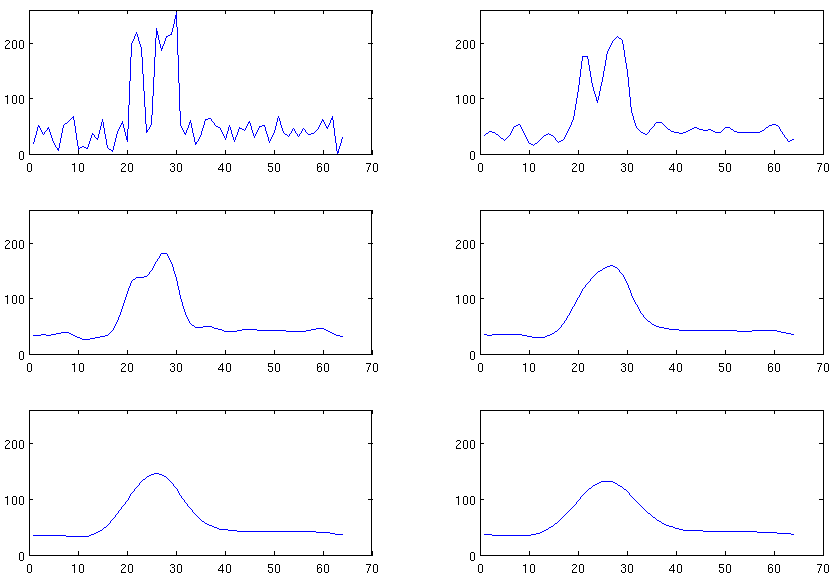
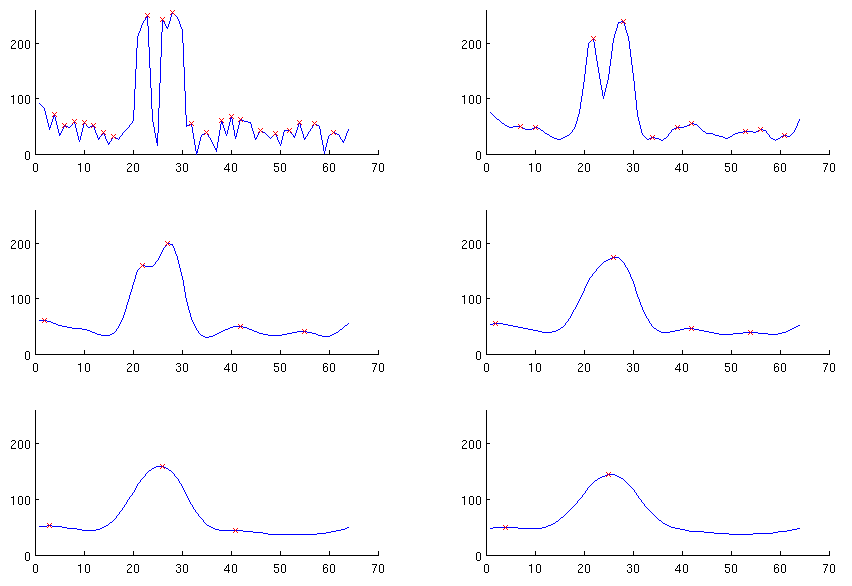
Week 4 done --- almost
I hate it. Shitty assignment :(

diff --git a/assignments/mandatory/week4/report/report.tex b/assignments/mandatory/week4/report/report.tex
@@ -344,6 +344,7 @@ Laplacian pyramid actually \emph{is} the subtraction of two Gaussians
 at different scales, i.e. this is just the same as the equation given in
 \citep[exercise 5.3]{jahne-digital}. I have implemented this and
 reconstructed using the previous method for reconstruction.
+\clearpage
 
 \subsection*{Question 4.2}
 Given a noisy signal we want to find maxima at all levels. We are
@@ -353,16 +354,7 @@ signal to the interval $(0, 255)$.
 We then generate the actual scale spaces using the Gaussian kernel from
 the above assignment (see listing \ref{gauss_matlab}) with increasing
 values for $\sigma$. By incrementing $\sigma$ to 63 we get the image
-shown in fig. \ref{signal_image}. In fig. \ref{signal_plots} the
-original signal is plotted along with the scaled signals for
-$\sigma$-values from 1 to 5.
-
-By inspecting the plots in fig. \ref{signal_plots} we see that
-We now subtract neighbouring pixels to find maxima in the signal. Plots
-are shown in fig. \ref{edges_plots}.
-
-We see that the signal approximates the Gaussian distribution when
-$\sigma$ is increased.
+shown in fig. \ref{signal_image}.
 
 \begin{figure}[!h]
     \centering
@@ -372,6 +364,14 @@ $\sigma$ is increased.
     \label{signal_image}
 \end{figure}
 
+In fig. \ref{signal_plots} the original signal is plotted along with the
+scaled signals for $\sigma$-values from 1 to 5.  By inspecting the plots
+in fig. \ref{signal_plots} we see that the signal is rather quickly
+drowned by the Gaussian kernel. Already at $\sigma = 2$ the two peaks at
+the start of the signal have been merged into one. Also, the position of
+the maxima shift as $\sigma$ increase.  Finally note that the signal
+approximates the Gaussian distribution when $\sigma$ is increased.
+
 \begin{figure}[!h]
     \centering
     \includegraphics[angle=0,width=0.95\textwidth]{images/scale_signal}
@@ -380,22 +380,46 @@ $\sigma$ is increased.
     right. Bottom right have $\sigma = 5$. Note that at $\sigma = 3$ the
     two peaks in the start of the signal have been merged into one.
     Also, just as the image in \textbf{fig. \ref{signal_image}} shows,
-    the intensity of the peaks in the signal decrease.}
+    the intensity of the peaks in the signal decrease. Red crosses
+    indicate found maxima.}
     \label{signal_plots}
 \end{figure}
+
+We now subtract neighbouring pixels and plot the result in fig.
+\ref{edges_plots}. At the zero crossings we have some extreme in the
+original signal. Using this we can find the maxima in the signal by only
+selecting those with positive value. The found maxima is shown as red
+crosses in fig. \ref{signal_plots}.
 
 \begin{figure}[!h]
     \centering
     \includegraphics[angle=0,width=0.95\textwidth]{images/scale_zero_cross}
-    \caption{Subtraction of neighbouring pixels.
-    Each plot corresponds to a plot in \textbf{fig. \ref{signal_plots}}.
-    At coarse scales we see that we have smooth wide curves indicating
-    that we have lost precision, i.e. we detect a change in the signal,
-    but we do not know exactly where it is. Finally, one should note the
+    \caption{Subtraction of neighbouring pixels (first derivative). Each
+    plot corresponds to a plot in \textbf{fig. \ref{signal_plots}}.  At
+    coarse scales we see that we have smooth wide curves indicating that
+    we have lost precision, i.e. we detect a change in the signal, but
+    we do not know exactly where it is. Finally, one should note the
     changing scales on the y-axis. At coarse resolution we only have a
     small indication of changes in the signal.}
     \label{edges_plots}
 \end{figure}
+
+For the given signal, we can detect the original maxima (two peaks at
+the start) at $\sigma = 2$, but at coarser scales these merge
+completely. With no scaling we can still detect the maxima, but the
+jagged tops of the peaks are also considered maxima, i.e. too many
+maxima are detected. Scaling with $\sigma = 1$ seems to be the best for
+detection as we only have one maxima per peak.
+
+As already mentioned, when we convolve with the Gaussian kernel the
+extremes are shifted. This means that even at $\sigma = 1$ the
+localisation is suboptimal. We get the best result for localisation with
+no scaling.
+
+It is possible to combine high detection and localisation ability by
+using ansiotropic diffusion, i.e. using different scales (different
+value for $\sigma$) at different positions in the signal. This will
+preserve detail and remove noise where needed.
 
 %%%%%%%%%%%%%%%%%%%%%%%%%%%%%%%%%%%%%%%%%%%%%%%%%%%%%%%%%%%%%%%%%%%%
 % Formal stuff

diff --git a/assignments/mandatory/week4/src/week4.m b/assignments/mandatory/week4/src/week4.m
@@ -161,12 +161,14 @@ function week4( ~ )
 
 % PART 2
 
+    % Constructs the random signal
     function S = ConstructSignal( ~ )
         N = 64;
         S = [zeros(1,20),ones(1,3),zeros(1,2),ones(1,5)];
         S = [S,zeros(1,N-length(S))] + 0.1*randn(1,N);
     end
 
+    % Scale the signal to a certain amount of levels
     function I = ScalesOfSignal(S, levels)
         I = zeros(levels, length(S));
         I(1,:) = S;
@@ -175,6 +177,7 @@ function week4( ~ )
         end
     end
 
+    % Same as above, but in steps of exponentials of two
     function I = AltScalesOfSignal(S, levels)
         I = zeros(levels, length(S));
         I(1,:) = S;
@@ -183,15 +186,42 @@ function week4( ~ )
         end
     end
 
+    % "Pixelwise" differerence
     function e = DetectDiff(S)
         e = zeros(size(S));
-        for n = 2:size(S,2)
-            e(n - 1) = S(n) - S(n - 1);
+        for n = 1:size(S,2) - 1
+            e(n) = S(n) - S(n + 1);
         end
 
     end
 
-    function C = ZeroCrossings(S)
+    function C = CountPositive(S)
+        C = 0;
+        for i = 1:length(S)
+            if sign(S(i)) > 0
+                C = C + 1;
+            end
+        end
+    end
+
+    % Remove zero values in a pair of vals and locations
+    function [nVals nLocs] = PruneZeroes(vals, locs)
+        nVals = zeros(CountPositive(vals), 1);
+        nLocs = zeros(size(nVals));
+
+        j = 1;
+        for i = 1:length(vals)
+            if sign(vals(i)) == 1
+                nVals(j) = vals(i);
+                nLocs(j) = locs(i);
+                j = j + 1;
+            end
+        end
+
+    end
+
+    % Returns the number and location of zero crossings in a signal
+    function [C locs] = ZeroCrossings(S)
         prevsign = 0;
         C = 0;
 
@@ -199,6 +229,7 @@ function week4( ~ )
             thissign = sign(S(n));
             if (thissign * prevsign) == -1
                 C = C + 1;
+                locs(C) = n;
             end
             if thissign ~= 0
                 prevsign = thissign;
@@ -206,33 +237,67 @@ function week4( ~ )
         end
     end
 
+    % Main
     function part2( ~ )
         S = ConstructSignal();
         S = adjust(S);
+
         s1 = ScalesOfSignal(S, length(S));
-        s2 = AltScalesOfSignal(S, length(S));
+        %s2 = AltScalesOfSignal(S, length(S));
 
         figure('Position', [1 1 600 800]);
         for i = 1:6
-            subplot(3, 2, i);
-            plot(s1(i, :));
-            axis([0 70 0 260])
-        end
+            FDev = DetectDiff(s1(i, :));
+            SDev = DetectDiff(FDev);
 
-        figure('Position', [1 1 600 800]);
-        for i = 1:6
-            %edges = DetectDiff(s1(i, :));
-            edges = s1(i,:) - s1(i + 1, :);
-            %ZeroCrossings(edges)
+            [C locs] = ZeroCrossings(FDev);
+            vals = zeros(size(locs));
 
             subplot(3, 2, i);
             hold on;
-            plot(edges);
+            for j = 1:length(locs)
+                tmp = s1(i, :);
+                next = s1(i + 1, :);
+                if sign(FDev(locs(j))) == 1
+                    vals(j) = tmp(locs(j));
+                end
+            end
+
+            [vals locs] = PruneZeroes(vals, locs);
+
+            subplot(3, 2, i);
+            plot(s1(i, :));
+            plot(locs,vals,'x', 'Color', 'red');
+            axis([0 70 0 260])
+
             hold off;
         end
 
-        figure, imshow(s1, []);
-        figure, imshow(s2, []);
+        figure('Position', [1 1 600 800]);
+        for i = 1:6
+
+            FDev = DetectDiff(s1(i, :));
+            SDev = DetectDiff(FDev);
+
+            [C locs] = ZeroCrossings(SDev);
+            vals = zeros(size(locs));
+
+            subplot(3, 2, i);
+            hold on;
+            % Plot second derivate
+            %plot(SDev,'Color', [1 0.7 0.7]);
+            plot(FDev);
+            for j = 1:length(locs)
+                vals(j) = FDev(locs(j));
+            end
+            %scatter(locs,vals,'x');
+            xlim([0 70])
+
+            hold off;
+        end
+
+        %figure, imshow(s1, []);
+        %figure, imshow(s2, []);
     end
 
 close all;
